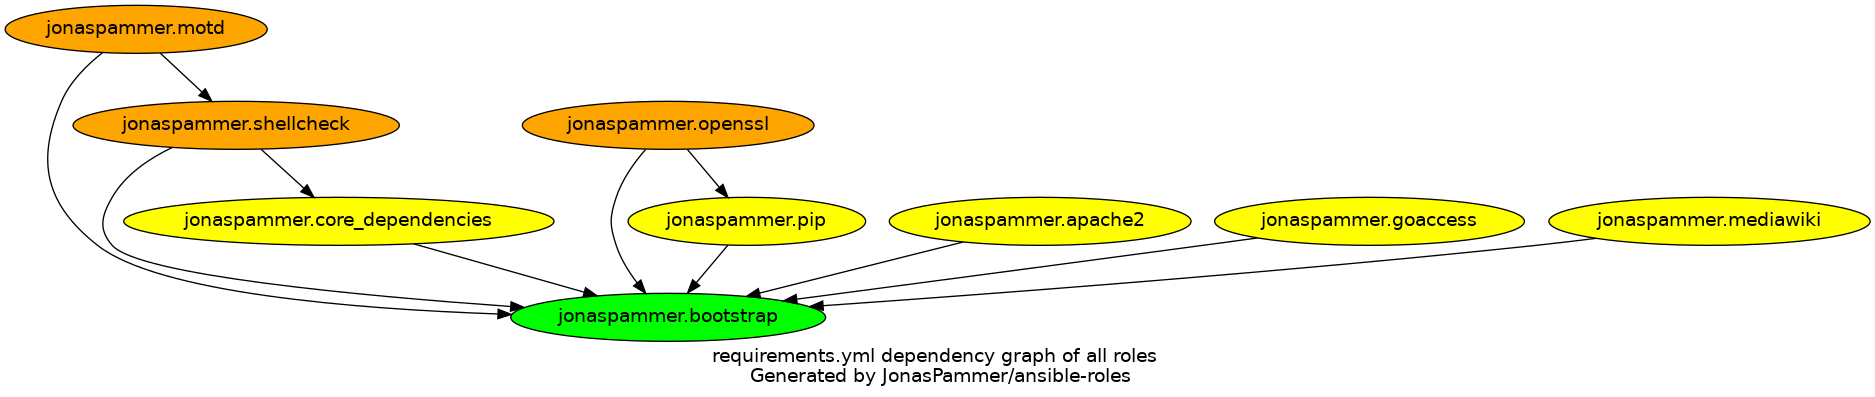
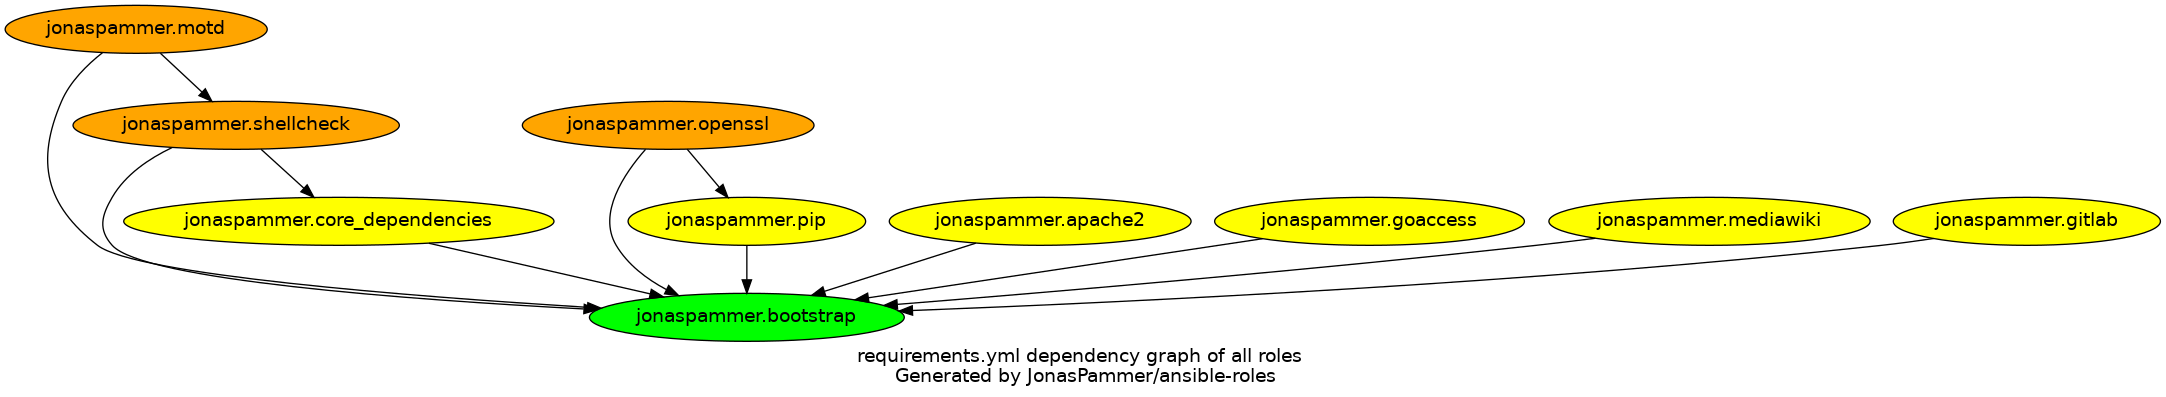
deploy: 715727518c56f4bce1f2d8469c98afc164cece4f

diff --git a/index.html b/index.html
@@ -712,6 +712,16 @@ is being periodically re-generated by a GitHub Action.</em></p>
 <td class="tableblock halign-left valign-top"><p class="tableblock"><a href="https://github.com/JonasPammer/ansible-role-mediawiki/issues"><span class="image"><img src="https://img.shields.io/github/issues-raw/JonasPammer/ansible-role-mediawiki" alt="issues"></span></a></p></td>
 <td class="tableblock halign-left valign-top"><p class="tableblock"><a href="https://github.com/JonasPammer/ansible-role-mediawiki/pulls"><span class="image"><img src="https://img.shields.io/github/issues-pr/JonasPammer/ansible-role-mediawiki" alt="pull requests"></span></a></p></td>
 </tr>
+<tr>
+<td class="tableblock halign-left valign-top"><p class="tableblock"><a href="https://github.com/JonasPammer/ansible-role-gitlab">gitlab</a><br>
+<a href="https://galaxy.ansible.com/jonaspammer/gitlab"><span class="image"><img src="https://img.shields.io/badge/galaxy-jonaspammer.gitlab-blueviolet" alt="Available on Galaxy" title="An ansible role for GitLab Git web interface. Fork of geerlingguy.gitlab"></span></a></p></td>
+<td class="tableblock halign-left valign-top"><p class="tableblock"><a href="https://github.com/JonasPammer/ansible-role-gitlab/actions/workflows/ci.yml"><span class="image"><img src="https://github.com/JonasPammer/ansible-role-gitlab/actions/workflows/ci.yml/badge.svg" alt="Testing CI"></span></a>
+<a href="https://results.pre-commit.ci/latest/github/JonasPammer/ansible-role-gitlab/master"><span class="image"><img src="https://results.pre-commit.ci/badge/github/JonasPammer/ansible-role-gitlab/master.svg" alt="pre-commit.ci status"></span></a></p></td>
+<td class="tableblock halign-left valign-top"><p class="tableblock"><a href="https://github.com/JonasPammer/ansible-role-gitlab/releases"><span class="image"><img src="https://img.shields.io/github/commits-since/JonasPammer/ansible-role-gitlab/latest.svg" alt="version"></span></a>
+<span class="image"><img src="https://img.shields.io/badge/dynamic/json?color=blueviolet&amp;label=galaxy%20downloads&amp;query=%24.download_count&amp;url=https%3A%2F%2Fgalaxy.ansible.com%2Fapi%2Fv1%2Froles%2F0%2F%3Fformat%3Djson" alt="Downloads Count as per Ansible Galaxy"></span></p></td>
+<td class="tableblock halign-left valign-top"><p class="tableblock"><a href="https://github.com/JonasPammer/ansible-role-gitlab/issues"><span class="image"><img src="https://img.shields.io/github/issues-raw/JonasPammer/ansible-role-gitlab" alt="issues"></span></a></p></td>
+<td class="tableblock halign-left valign-top"><p class="tableblock"><a href="https://github.com/JonasPammer/ansible-role-gitlab/pulls"><span class="image"><img src="https://img.shields.io/github/issues-pr/JonasPammer/ansible-role-gitlab" alt="pull requests"></span></a></p></td>
+</tr>
 </tbody>
 </table>
 <div class="sect2">
@@ -819,7 +829,7 @@ you still <strong>have to</strong> include them in your playbook yourself:</p>
 </div>
 <div id="footer">
 <div id="footer-text">
-Last updated 2024-02-19 05:03:17 UTC
+Last updated 2024-02-19 22:50:11 UTC
 </div>
 </div>
 </body>
